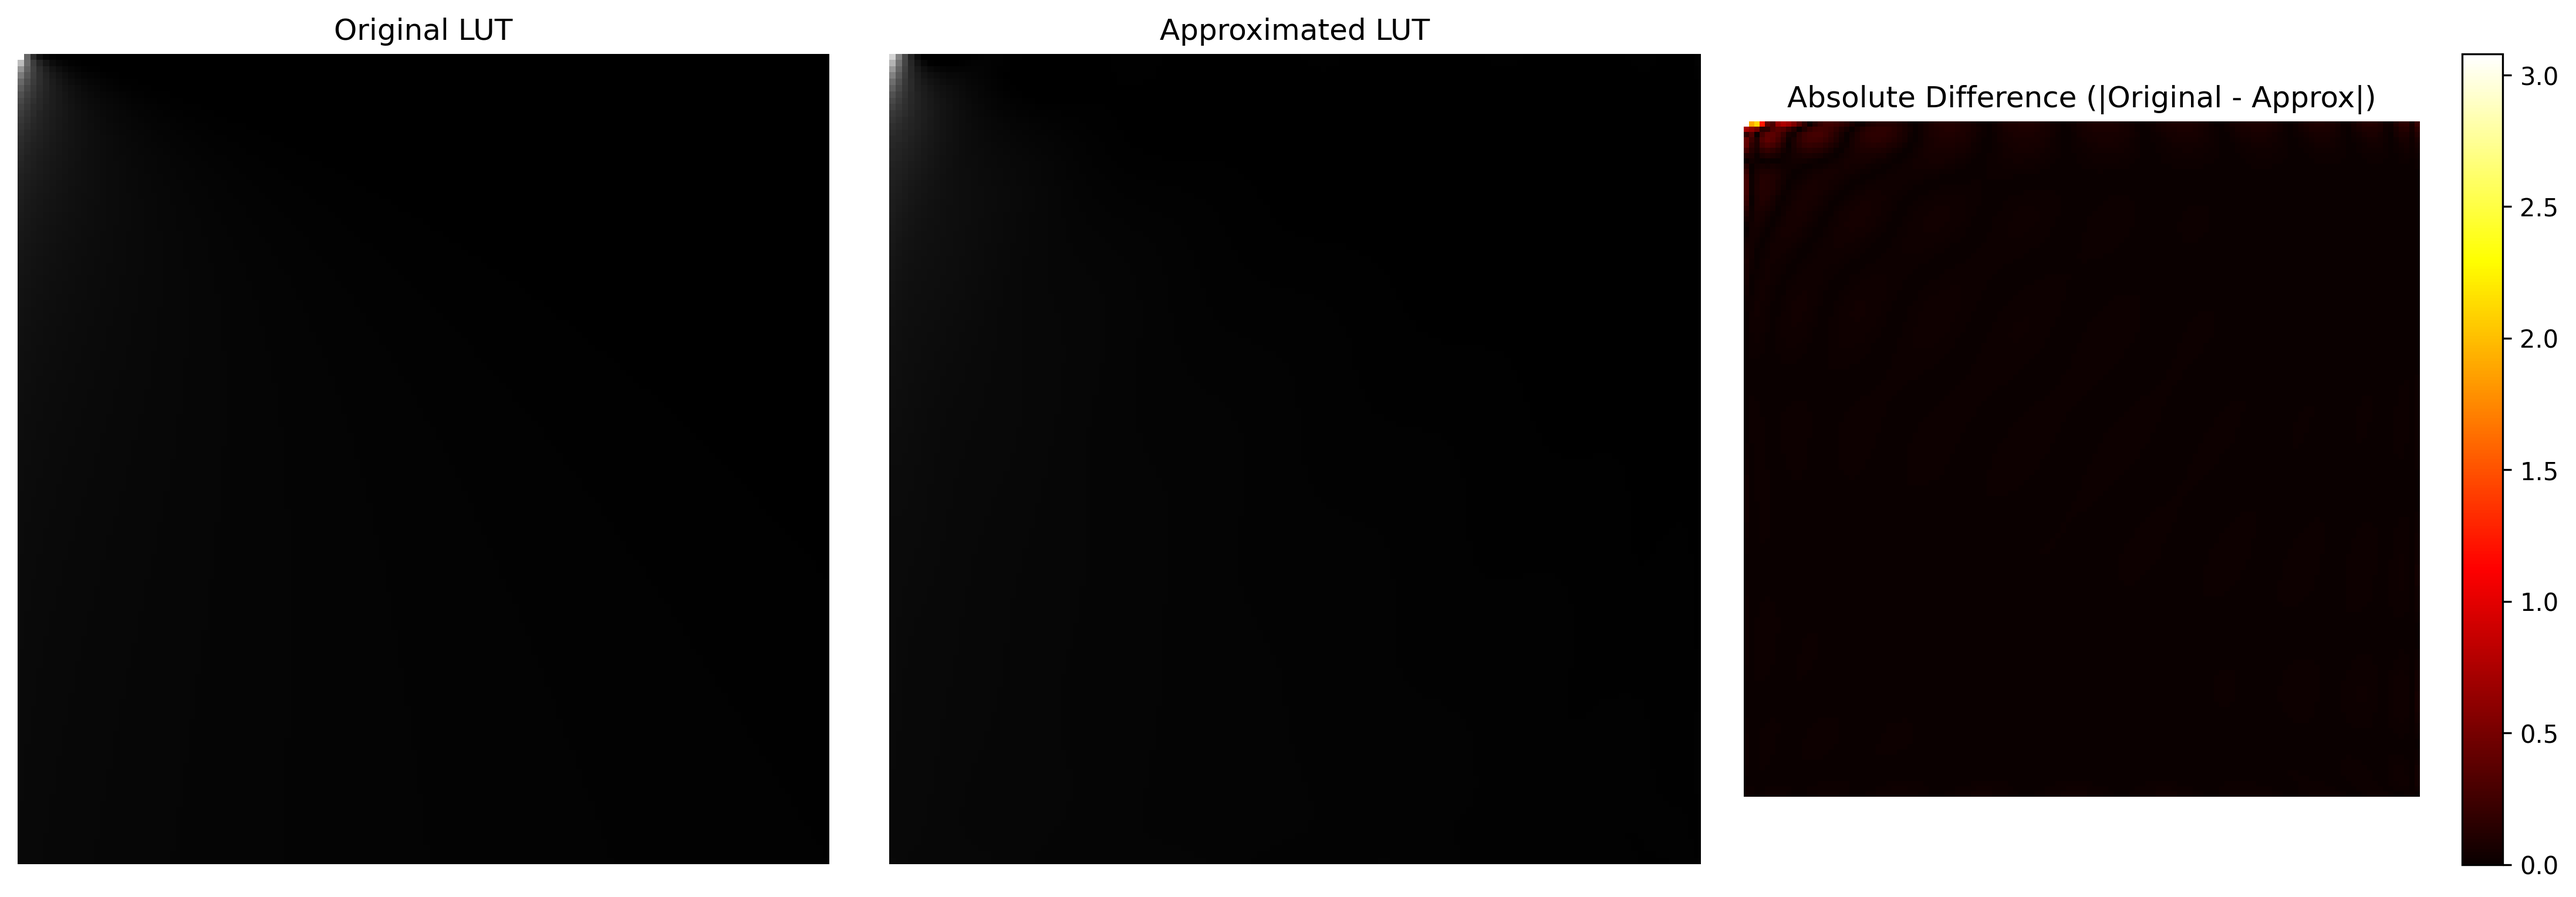
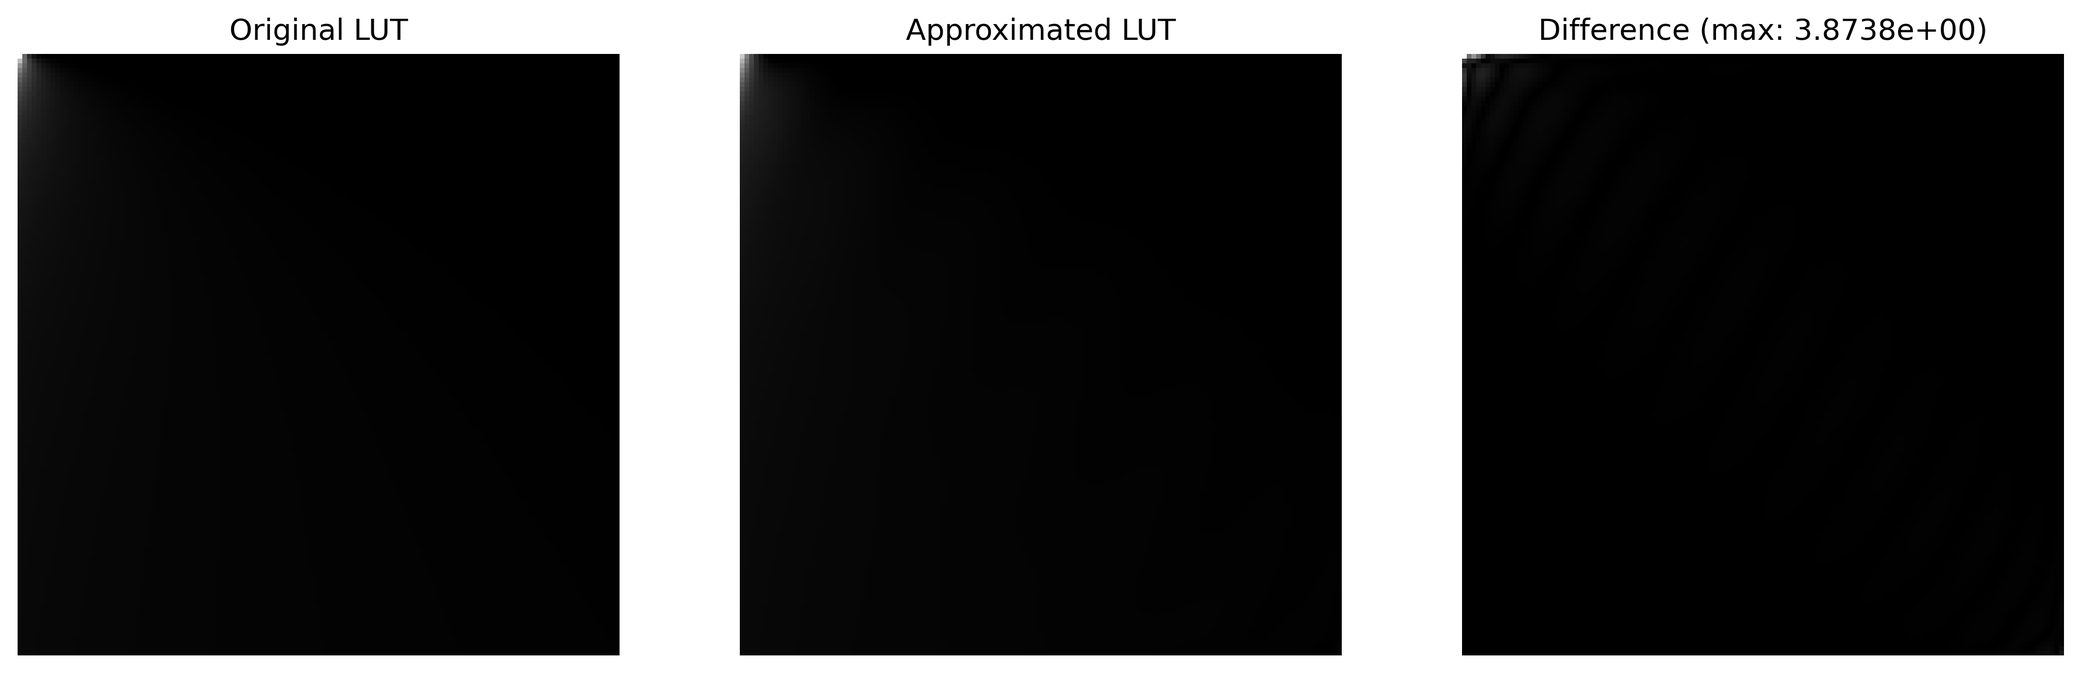
Enhance LUT fitting by normalizing inputs and increasing polynomial degree to 16 for improved precision; update output and visualization logic.

Changed region(s): [[0.0, 0.0, 0.9924, 0.9756]]

diff --git a/main.py b/main.py
@@ -33,15 +33,22 @@ def main():
 
     # Reshape to 128x128
     lut = np.array(data).reshape(128, 128)
-    print(f"Original LUT range: min={np.min(lut):.4f}, max={np.max(lut):.4f}")
+    vmax = np.max(lut)
+    print(f"Original LUT range: min={np.min(lut):.4f}, max={vmax:.4f}")
+    print(f"LUT max value for denormalization: {vmax}")
 
-    # Normalized coordinates (0-1 for stability in fitting)
-    r = np.linspace(0, 1, 128)  # roughness 0-1
-    c = np.linspace(0, 1, 128)  # cos_theta 0-1
+    # Normalize LUT to compress range to 0-1 for better fit
+    norm_lut = lut / vmax
 
-    # Fit full 2D polynomial of degree 12 for very high precision (13^2 = 169 terms)
-    deg = 12
-    terms = [(i, j) for i in range(deg + 1) for j in range(deg + 1)]
+    # Normalized inputs (0-1) for better numerical fit and higher SSIM
+    # In shader: compute norm_roughness = roughness_index / 127.0, norm_cos_theta = cos_theta_index / 127.0
+    # Then: output = polynomial(norm_roughness, norm_cos_theta) * vmax
+    r = np.linspace(0, 1, 128)  # roughness normalized 0-1
+    c = np.linspace(0, 1, 128)  # cos_theta normalized 0-1
+
+    # Fit triangular 2D polynomial of degree 16 for higher precision ((17+1)*(18)/2 = 153 terms)
+    deg = 16
+    terms = [(i, j) for i in range(deg + 1) for j in range(deg - i + 1)]
 
     n_terms = len(terms)
     R_, C_ = np.meshgrid(r, c, indexing='ij')
@@ -52,25 +59,29 @@ def main():
         X[:, k] = R_.ravel() ** i * C_.ravel() ** j
         k += 1
 
-    # Least squares fit (minimizes MSE)
-    coeffs, residuals, rank, s = np.linalg.lstsq(X, lut.ravel(), rcond=None)
+    coeffs = np.linalg.lstsq(X, norm_lut.ravel(), rcond=None)[0]
+    # Approximate coefficients to float32 precision
+    coeffs = np.round(coeffs, 7)
 
     # Symbolic variables
-    x, y = sympy.symbols('roughness cos_theta')  # normalized 0-1
+    x, y = sympy.symbols('roughness cos_theta')
 
     # Build the expression
     expr = sum(coeffs[k] * x**i * y**j for k, (i, j) in enumerate(terms))
 
-    # Optional: check the fit quality
-    lut_approx = np.dot(X, coeffs).reshape(128, 128)
+    # Check fit quality
+    norm_approx = np.dot(X, coeffs).reshape(128, 128)
+    lut_approx = norm_approx * vmax
     mse = np.mean((lut - lut_approx)**2)
-    ssim_val = ssim(lut, np.clip(lut_approx, 0, None), data_range=np.max(lut))
-    print("Approximated analytical expression for the sheen LUT (normalize inputs to 0-1):")
+    ssim_val = ssim(lut, np.clip(lut_approx, 0, None), data_range=vmax)
+    print("Approximated analytical expression for the sheen LUT (normalized inputs 0-1):")
+    # Note: In shader, compute norm_roughness = roughness_index / 127.0, norm_cos_theta = cos_theta_index / 127.0
+    # Then: sheen_value = polynomial_output * vmax
     print(sympy.simplify(expr))
     print(f"Mean Squared Error: {mse:.8f}")
     print(f"Structural Similarity Index (SSIM): {ssim_val:.4f}")
 
-    # Save individual images
+    # Save images
     vmin = 0.0
     vmax = np.max(lut)
 
@@ -88,7 +99,7 @@ def main():
     plt.savefig('approximated_lut.png', dpi=300, bbox_inches='tight')
     plt.close()
 
-    # Create comparison image to highlight differences
+    # Create comparison image
     diff = np.abs(lut - lut_approx)
     max_diff = np.max(diff)
 
@@ -96,18 +107,17 @@ def main():
     axes[0].imshow(lut, cmap='gray', origin='lower', vmin=vmin, vmax=vmax)
     axes[0].set_title('Original LUT')
     axes[0].axis('off')
+
     axes[1].imshow(lut_approx, cmap='gray', origin='lower', vmin=vmin, vmax=vmax)
     axes[1].set_title('Approximated LUT')
     axes[1].axis('off')
-    im = axes[2].imshow(diff, cmap='hot', origin='lower', vmin=0, vmax=max_diff)
-    axes[2].set_title('Absolute Difference (|Original - Approx|)')
+
+    axes[2].imshow(diff, cmap='gray', origin='lower')
+    axes[2].set_title(f'Difference (max: {max_diff:.4e})')
     axes[2].axis('off')
-    plt.colorbar(im, ax=axes[2])
-    plt.tight_layout()
+
     plt.savefig('comparison_lut.png', dpi=300, bbox_inches='tight')
     plt.close()
-
-    print("Images saved: original_lut.png, approximated_lut.png, comparison_lut.png")
 
 if __name__ == "__main__":
     main()
